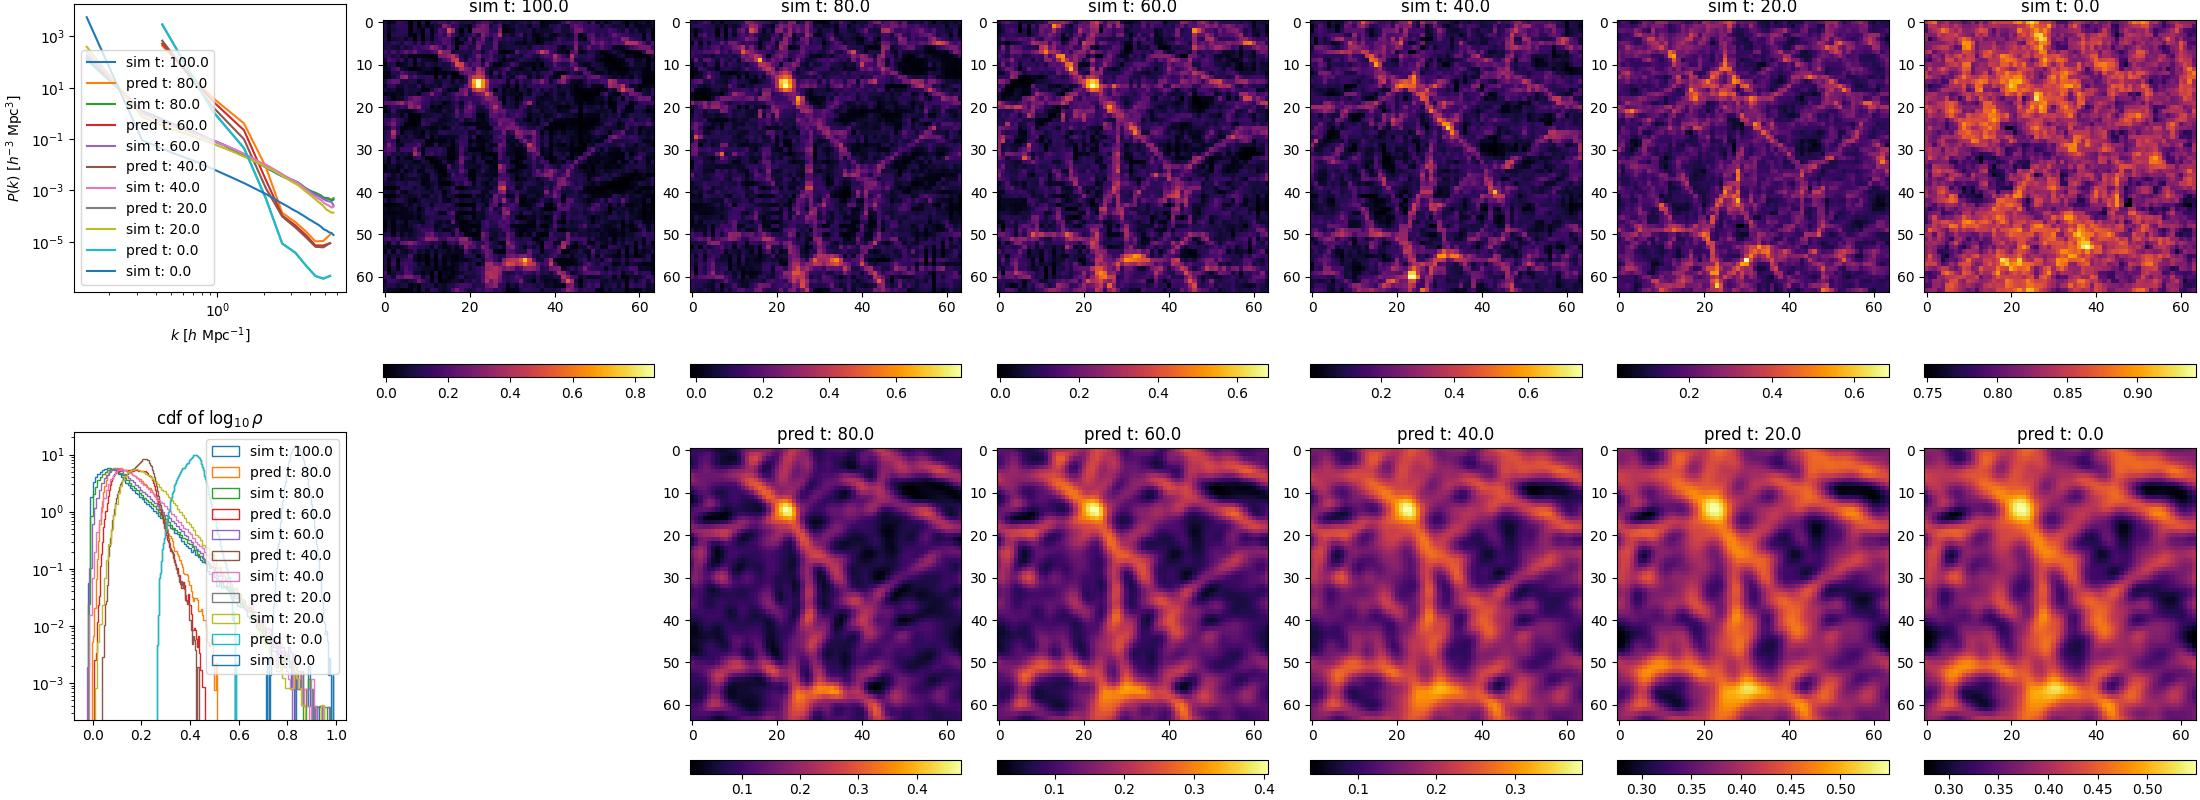
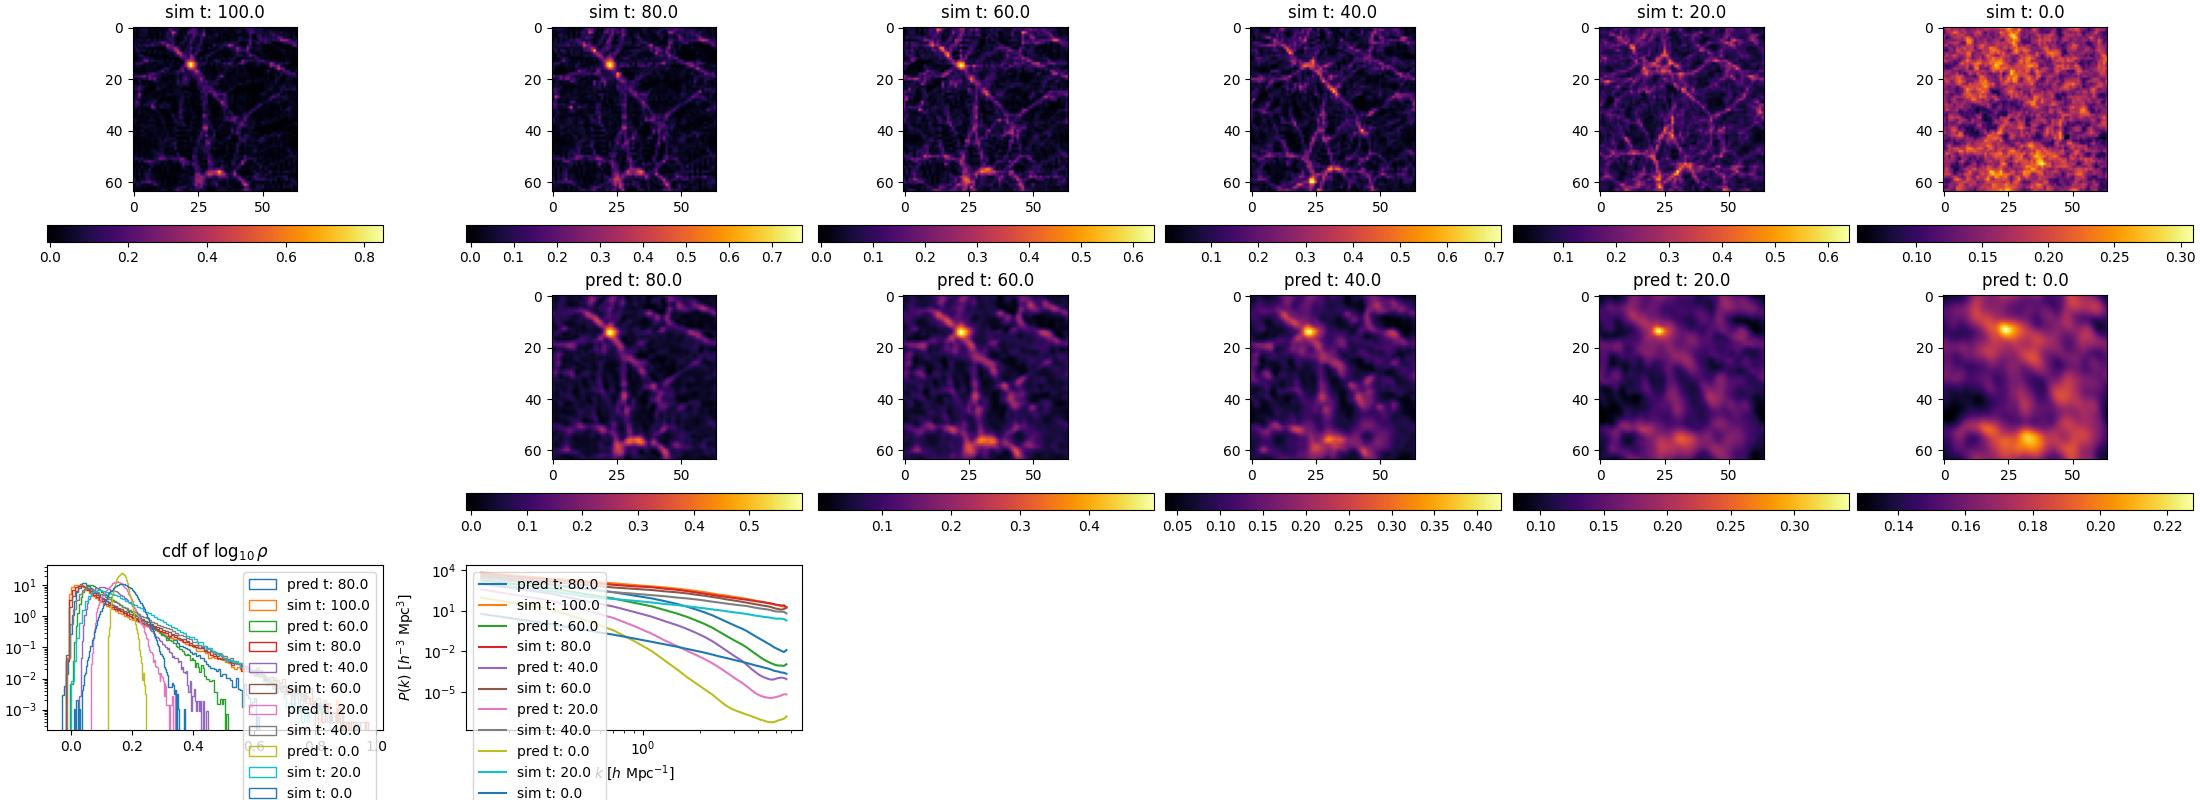
sequential prediction using stepwise and sequential mode

diff --git a/src/visualize/sequence.py b/src/visualize/sequence.py
@@ -8,89 +8,6 @@ from powerbox import PowerBox, get_power
 from data import normalize_inv
 from cosmos import compute_overdensity
 
-def sequence(
-        ouput_file : str,
-        sequence_prediction : jax.Array,
-        config : Config,
-        sequence : jax.Array,
-        timeline : jax.Array,
-        means : jax.Array):
-    
-    frames = sequence.shape[0]
-    grid_size = sequence.shape[2]
-
-    # transform to shape for matplotlib
-    sequence = jnp.reshape(
-        sequence, (frames, grid_size, grid_size, grid_size, 1))
-    sequence_prediction = jnp.reshape(
-        sequence_prediction, (frames-1, grid_size, grid_size, grid_size, 1))
-
-    fig = plt.figure(figsize=(4+3*frames, 8), layout="constrained")
-    grid = fig.subplots(nrows=2, ncols=frames+1)
-
-    power_spectrum = PowerSpectrum(grid_size, 30)
-
-    ax_cdf = grid[1, 0]
-    ax_cdf_rho =  grid[1, 1]
-    ax_power = grid[0, 0]
-
-    ax_cdf_rho.axis('off')
-    for frame in range(frames):
-
-        mean = means[frame]
-        mean = jax.device_put(mean, device=jax.devices("gpu")[0])
-
-        # k, power = power_spectrum(sequence[frame, :, :, :, 0])
-        # ax_power.plot(k, power, label=f"sim t: {timeline[frame]}")
-
-        # if frame < frames - 1:
-        #     k, power = power_spectrum(sequence_prediction[frame, :, :, :, 0])
-        #     ax_power.plot(k, power, label=f"pred t: {timeline[frame]}")
-        
-        if frame > 0:
-            ax_pred = grid[1, frame + 1]
-            ax_pred.set_title(f"pred t: {timeline[frame]}")
-            im_pred = ax_pred.imshow(sequence_prediction[frame, grid_size // 2, : , :], cmap='inferno')
-            fig.colorbar(im_pred, ax=ax_pred, orientation='horizontal', location='bottom')
- 
-            ax_cdf.hist(sequence_prediction[frame].flatten(), 100, density=True, log=True, histtype="step",
-                               cumulative=False, label=f"pred t: {timeline[frame]}")
-            
-            # ax_cdf_rho.hist((jnp.power(10, sequence_prediction[frame])-2).flatten(), 100, density=True, histtype="step",
-            #                    cumulative=False, label=f"pred t: {timeline[frame]}")
-
-            p,k = get_power(sequence_prediction[frame], config.box_size)
-            ax_power.plot(k, p, label=f"pred t: {timeline[frame]}")
-
-        ax_seq = grid[0, frame + 1]
-        ax_seq.set_title(f"sim t: {timeline[frame]}")
-        im_seq = ax_seq.imshow(sequence[frame, grid_size // 2, : , :], cmap='inferno')
-        fig.colorbar(im_seq, ax=ax_seq, orientation='horizontal', location='bottom')
-
-        ax_cdf.hist(sequence[frame].flatten(), 100, density=True, log=True, histtype="step",
-                               cumulative=False, label=f"sim t: {timeline[frame]}")
-        
-        # ax_cdf_rho.hist((jnp.power(10, sequence[frame])-2).flatten(), 100, density=True, histtype="step",
-        #                         cumulative=False, label=f"pred t: {timeline[frame]}")
-        
-        p,k = get_power(sequence[frame, :, :, :, 0], config.box_size)
-        ax_power.plot(k, p, label=f"sim t: {timeline[frame]}")
-
-    ax_power.set_yscale('log')
-    ax_power.set_xscale('log')
-    ax_power.legend()
-    ax_power.set_xlabel(r'$k$ [$h \ \mathrm{Mpc}^{-1}$]')
-    ax_power.set_ylabel(r'$P(k)$ [$h^{-3} \ \mathrm{Mpc}^3$]')
-
-    ax_cdf.set_title(r'cdf of $\log_{10} \rho$')
-    # ax_cdf_rho.set_title(r'cdf of $\rho$')
-
-    ax_cdf.legend()
-    # ax_cdf.set_xlim(0, 1)
-    
-
-    plt.savefig(ouput_file)
-
 def sequence_examine(
         ouput_file : str,
         config : Config,

diff --git a/src/train.py b/src/train.py
@@ -70,8 +70,8 @@ def main(argv) -> None:
 
     fno_hyperparams = {
         "modes" : 32,
-        "input_channels" : 1,
-        "hidden_channels" : 4,
+        "input_channels" : 2,
+        "hidden_channels" : 8,
         "output_channels" : 1,
         "n_fourier_layers" : 4}
 
@@ -106,25 +106,24 @@ def main(argv) -> None:
         n_epochs = config.n_epochs,
         sequential_mode = False)
     
-    # # # train the model in sequential mode
-    # print(f"Sequential mode training for {config.n_epochs} epochs")
-    # model_params, train_loss_sequential, val_loss_sequential, time = nn.train_model(
-    #     model_params = model_params,
-    #     model_static = model_static, 
-    #     train_data_iterator = train_data_iterator,
-    #     val_data_iterator = val_data_iterator,
-    #     learning_rate = config.learning_rate,
-    #     n_epochs = config.n_epochs,
-    #     sequential_mode = True)
+    # train the model in sequential mode
+    print(f"Sequential mode training for {config.n_epochs} epochs")
+    model_params, train_loss_sequential, val_loss_sequential, baseline_loss_sequential, time = nn.train_model(
+        model_params = model_params,
+        model_static = model_static, 
+        train_data_iterator = train_data_iterator,
+        val_data_iterator = val_data_iterator,
+        learning_rate = config.learning_rate,
+        n_epochs = config.n_epochs,
+        sequential_mode = True)
 
     model = eqx.combine(model_params, model_static)
 
     training_stats = {
         "train_loss" : train_loss,
         "val_loss" : val_loss,
-        "baseline_loss" : baseline_loss,
-        # "train_loss_seq" : train_loss_sequential,
-        # "val_loss_seq" : val_loss_sequential,
+        "train_loss_seq" : train_loss_sequential,
+        "val_loss_seq" : val_loss_sequential,
         "time" : time}
 
     now = datetime.now()

diff --git a/src/nn/sequential_model.py b/src/nn/sequential_model.py
@@ -54,7 +54,7 @@ class SequentialModel(eqx.Module):
             for i in range(self.sequence_length):
                 # potential = potential_fn(carry)
                 x_ = jnp.concatenate([carry, time_grid * i/self.sequence_length + 1], axis=0)
-                carry = self.model(carry)
+                carry = self.model(x_)
                 y = y.at[i].set(carry)
 
         else:
@@ -62,6 +62,6 @@ class SequentialModel(eqx.Module):
                 # potential = potential_fn(x[i])
                 x_ = jnp.concatenate([x[i], time_grid * i/self.sequence_length + 1], axis=0)
                 print(self.normalize(x[i]).shape)
-                y = y.at[i].set(self.model(x[i]))
+                y = y.at[i].set(self.model(x_))
 
         return y

diff --git a/src/evaluate.py b/src/evaluate.py
@@ -53,6 +53,14 @@ def main(argv) -> None:
         sequence_prediction = pred,
         timeline = timeline,
         attributes = attributes)
+
+    visualize.sequence_examine_prediction(
+        "img/prediction_sequential.jpg", 
+        sequence = sequence, 
+        config = config,
+        sequence_prediction = pred_sequential,
+        timeline = timeline,
+        attributes = attributes)
     
     # visualize.sequence(
     #     "img/prediction_sequential.jpg", 
